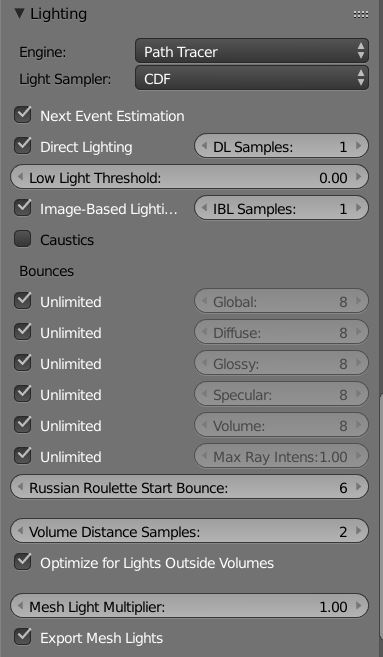
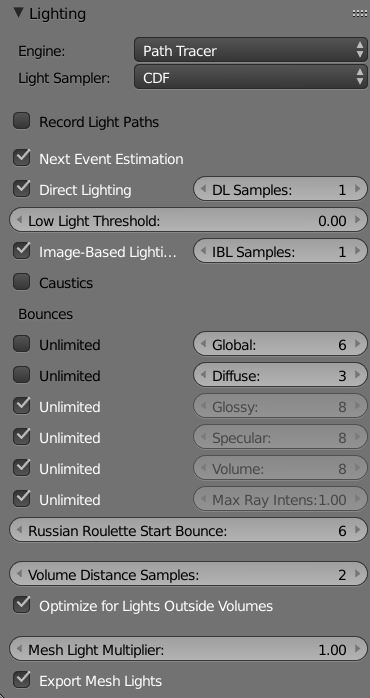
Update docs to latest blenderseed

diff --git a/docs/osl/osl_metadata.rst b/docs/osl/osl_metadata.rst
@@ -10,13 +10,14 @@ When blenderseed scans an OSL shader it looks for several specific metadata tags
 		This is the name of the node.  If it is not used the name of the OSL file will be used.
 	- string classification
 		This tells blenderseed what the shader is.  Options are:
-			utility
-			texture/2d
-			texture/3d
+
+			- utility
+			- texture/2d
+			- texture/3d
 - Parameter Metadata:  This is metadata that is used on each parameter.
 	- string label
 		This defines the name of the parameter that will appear in the UI.
-	- int connectable
+	- int as_blender_input_socket
 		This tells the UI whether it should hide the socket connection for this parameter.  You would use this for any parameter that you do not want to be controllable through a texture. '0' hides the socket.
 	- string help
 		This is a tooltip that will appear whenever a parameter is hovered over.
@@ -24,18 +25,19 @@ When blenderseed scans an OSL shader it looks for several specific metadata tags
 		This is used to define the menu options of a drop down list.  Entries should be formatted with a '|' separating each option.
 	- string widget
 		This is used for defining two things: if a string parameter needs a file selector option, or if the direct control of a parameter should be hidden (so only the socket is visible).  Options are:
-			filename (tells blenderseed to add a file selection button to a string property)
-			null (tells blenderseed to hide the direct control for a parameter)
+		
+			- filename (tells blenderseed to add a file selection button to a string property)
+			- null (tells blenderseed to hide the direct control for a parameter)
 
 |
 
 - Max/Min limits: Integer and float properties can be set with one of four different options that control the range of adjustment a parameter can have.  Options are:
-	max
-	min 
-	softmax 
-	softmin
+	- max
+	- min 
+	- softmax 
+	- softmin
 
 - Examples:
-	string help = "This is a help string"
-	int softmin = 5
-	string node_name = "asClosure2Surface"
+	- string help = "This is a help string"
+	- int softmin = 5
+	- string node_name = "asClosure2Surface"

diff --git a/docs/panels/render/lighting.rst b/docs/panels/render/lighting.rst
@@ -13,6 +13,9 @@ Path Tracing Engine
 
 |
 
+- Record Light Paths:
+	This instructs appleseed to store information on the path that a light ray travels.  It can then be retrieved and visualized in appleseed.studio.  See `here <https://vimeo.com/263532331>`_ for a demonstration of this feature.
+
 - Next Event Estimation:
 	Whether or not light sources are directly sampled in addition to being hit by indirect rays.
 - Direct Lighting:
@@ -24,12 +27,12 @@ Path Tracing Engine
 - Caustics:
 	Whether or not caustic effects are rendered.
 - Bounces:
-	Global: Sets a maximum number of bounces for a light ray.
-	Diffuse: Sets a maximum number of diffuse bounces a ray can make.
-	Glossy: Sets the number of glossy bounces a ray can make.
-	Specular: Sets the number of specular bounces a ray can make.
-	Volume: Sets the number of bounces a ray can make inside a volume.
-	Max Ray Intensity: Sets the maximum brightness an indirect ray can contribute to the scene.  Lowering this can remove fireflies at the expense of accurate lighting.
+	- Global: Sets a maximum number of bounces for a light ray.
+	- Diffuse: Sets a maximum number of diffuse bounces a ray can make.
+	- Glossy: Sets the number of glossy bounces a ray can make.
+	- Specular: Sets the number of specular bounces a ray can make.
+	- Volume: Sets the number of bounces a ray can make inside a volume.
+	- Max Ray Intensity: Sets the maximum brightness an indirect ray can contribute to the scene.  Lowering this can remove fireflies at the expense of accurate lighting.
 - Russian Roulette Start Bounce:
 	Sets the bounce after which Russian Roulette will be used to terminate rays that are not expected to contribute much to the final image.  Lowering this can increase noise but speed up rendering.
 - Volume Distance Samples: 

diff --git a/docs/panels/material/light_material.rst b/docs/panels/material/light_material.rst
@@ -9,8 +9,9 @@ Light Material
 	This is the color of the light light_emission
 - Profile:
 	This selects one of two different emission profiles:
-		Diffuse EDF: This is a standard profile that emits light in a Lambertian fasion (i.e. directionless)
-		Cone EDF: This profile allows you to change the angle of distribution, allowing you to create a pseudo spotlight light distribution from a mesh lamp
+
+		- Diffuse EDF: This is a standard profile that emits light in a Lambertian fashion (i.e. directionless)
+		- Cone EDF: This profile allows you to change the angle of distribution, allowing you to create a pseudo spotlight distribution from a mesh lamp
 - Cone EDF Angle (*only applicable to Cone EDF profile*):
 	This defines the angle of the light emission for the Cone EDF profile
 - Radiance Multiplier:

diff --git a/docs/panels/render/general.rst b/docs/panels/render/general.rst
@@ -11,7 +11,7 @@ General
 	All: Always export all geometry.
 	Partial: Export geometry only if it isn't already present in the output directory.
 	Selected: Only export the item(s) that are selected in the viewport.
-- Delete External Cache After rendering
+- Delete Cache
 	This will delete the files from the output directory after the render has completed.
 - Tile Ordering
 	This defines how the image tiles are rendered out (or the order in which they will appear).

diff --git a/docs/panels/layers/render_passes.rst b/docs/panels/layers/render_passes.rst
@@ -1,0 +1,11 @@
+Render Passes
+=============
+
+.. image:: /_static/screenshots/layers_panel/aovs.JPG
+
+|
+
+Render passes allow the lighting and geometric data of the scene to be sorted by reflection type and placed into independent images.
+
+The passes are available to view during rendering and are also available in the compositor.
+

diff --git a/docs/reference.rst b/docs/reference.rst
@@ -7,6 +7,7 @@ Panels
    :maxdepth: 2
 
    panels/render/render_panel
+   panels/layers/layers_panel
    panels/world/world_panel
    panels/object/object_panel
    panels/material/material_panel

diff --git a/docs/index.rst b/docs/index.rst
@@ -1,5 +1,4 @@
-Welcome!
-========
+.. title:: Welcome!
 
 .. image:: /_static/appleseedDocCover_Blender.png
 

diff --git a/docs/panels/layers/layers_panel.rst b/docs/panels/layers/layers_panel.rst
@@ -1,0 +1,7 @@
+Layers
+======
+
+.. toctree::
+	:maxdepth: 2
+
+	render_passes
